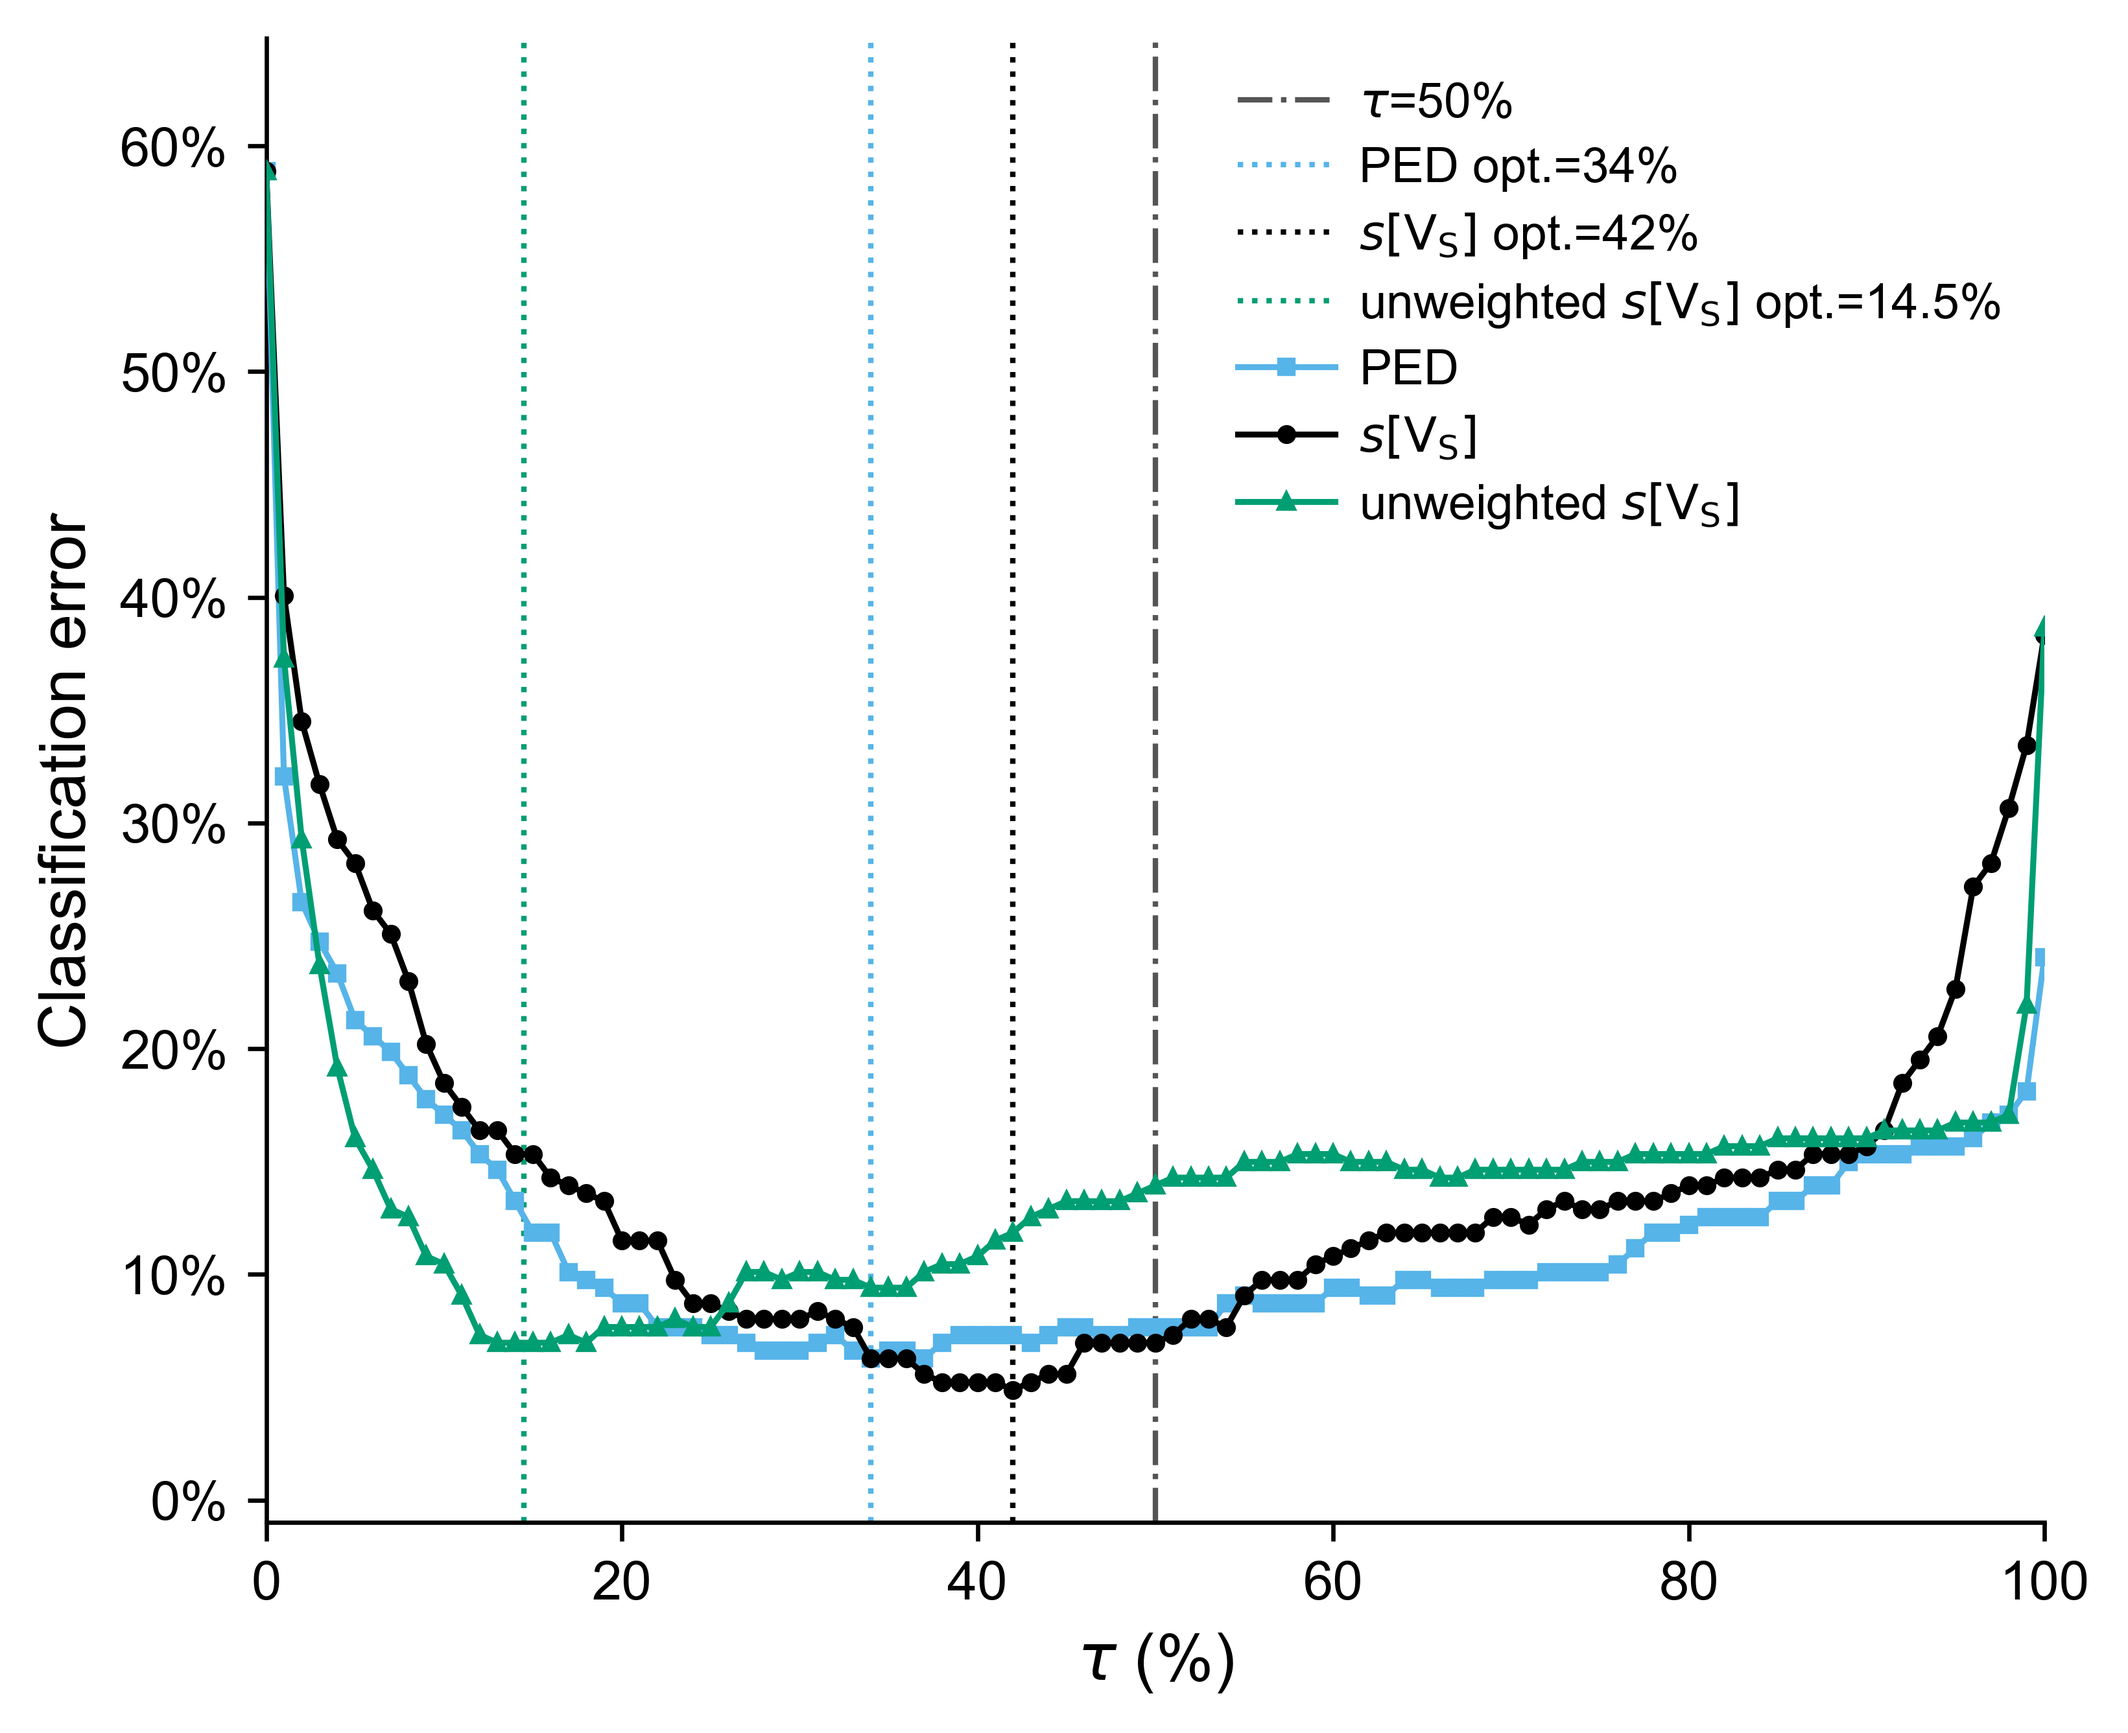
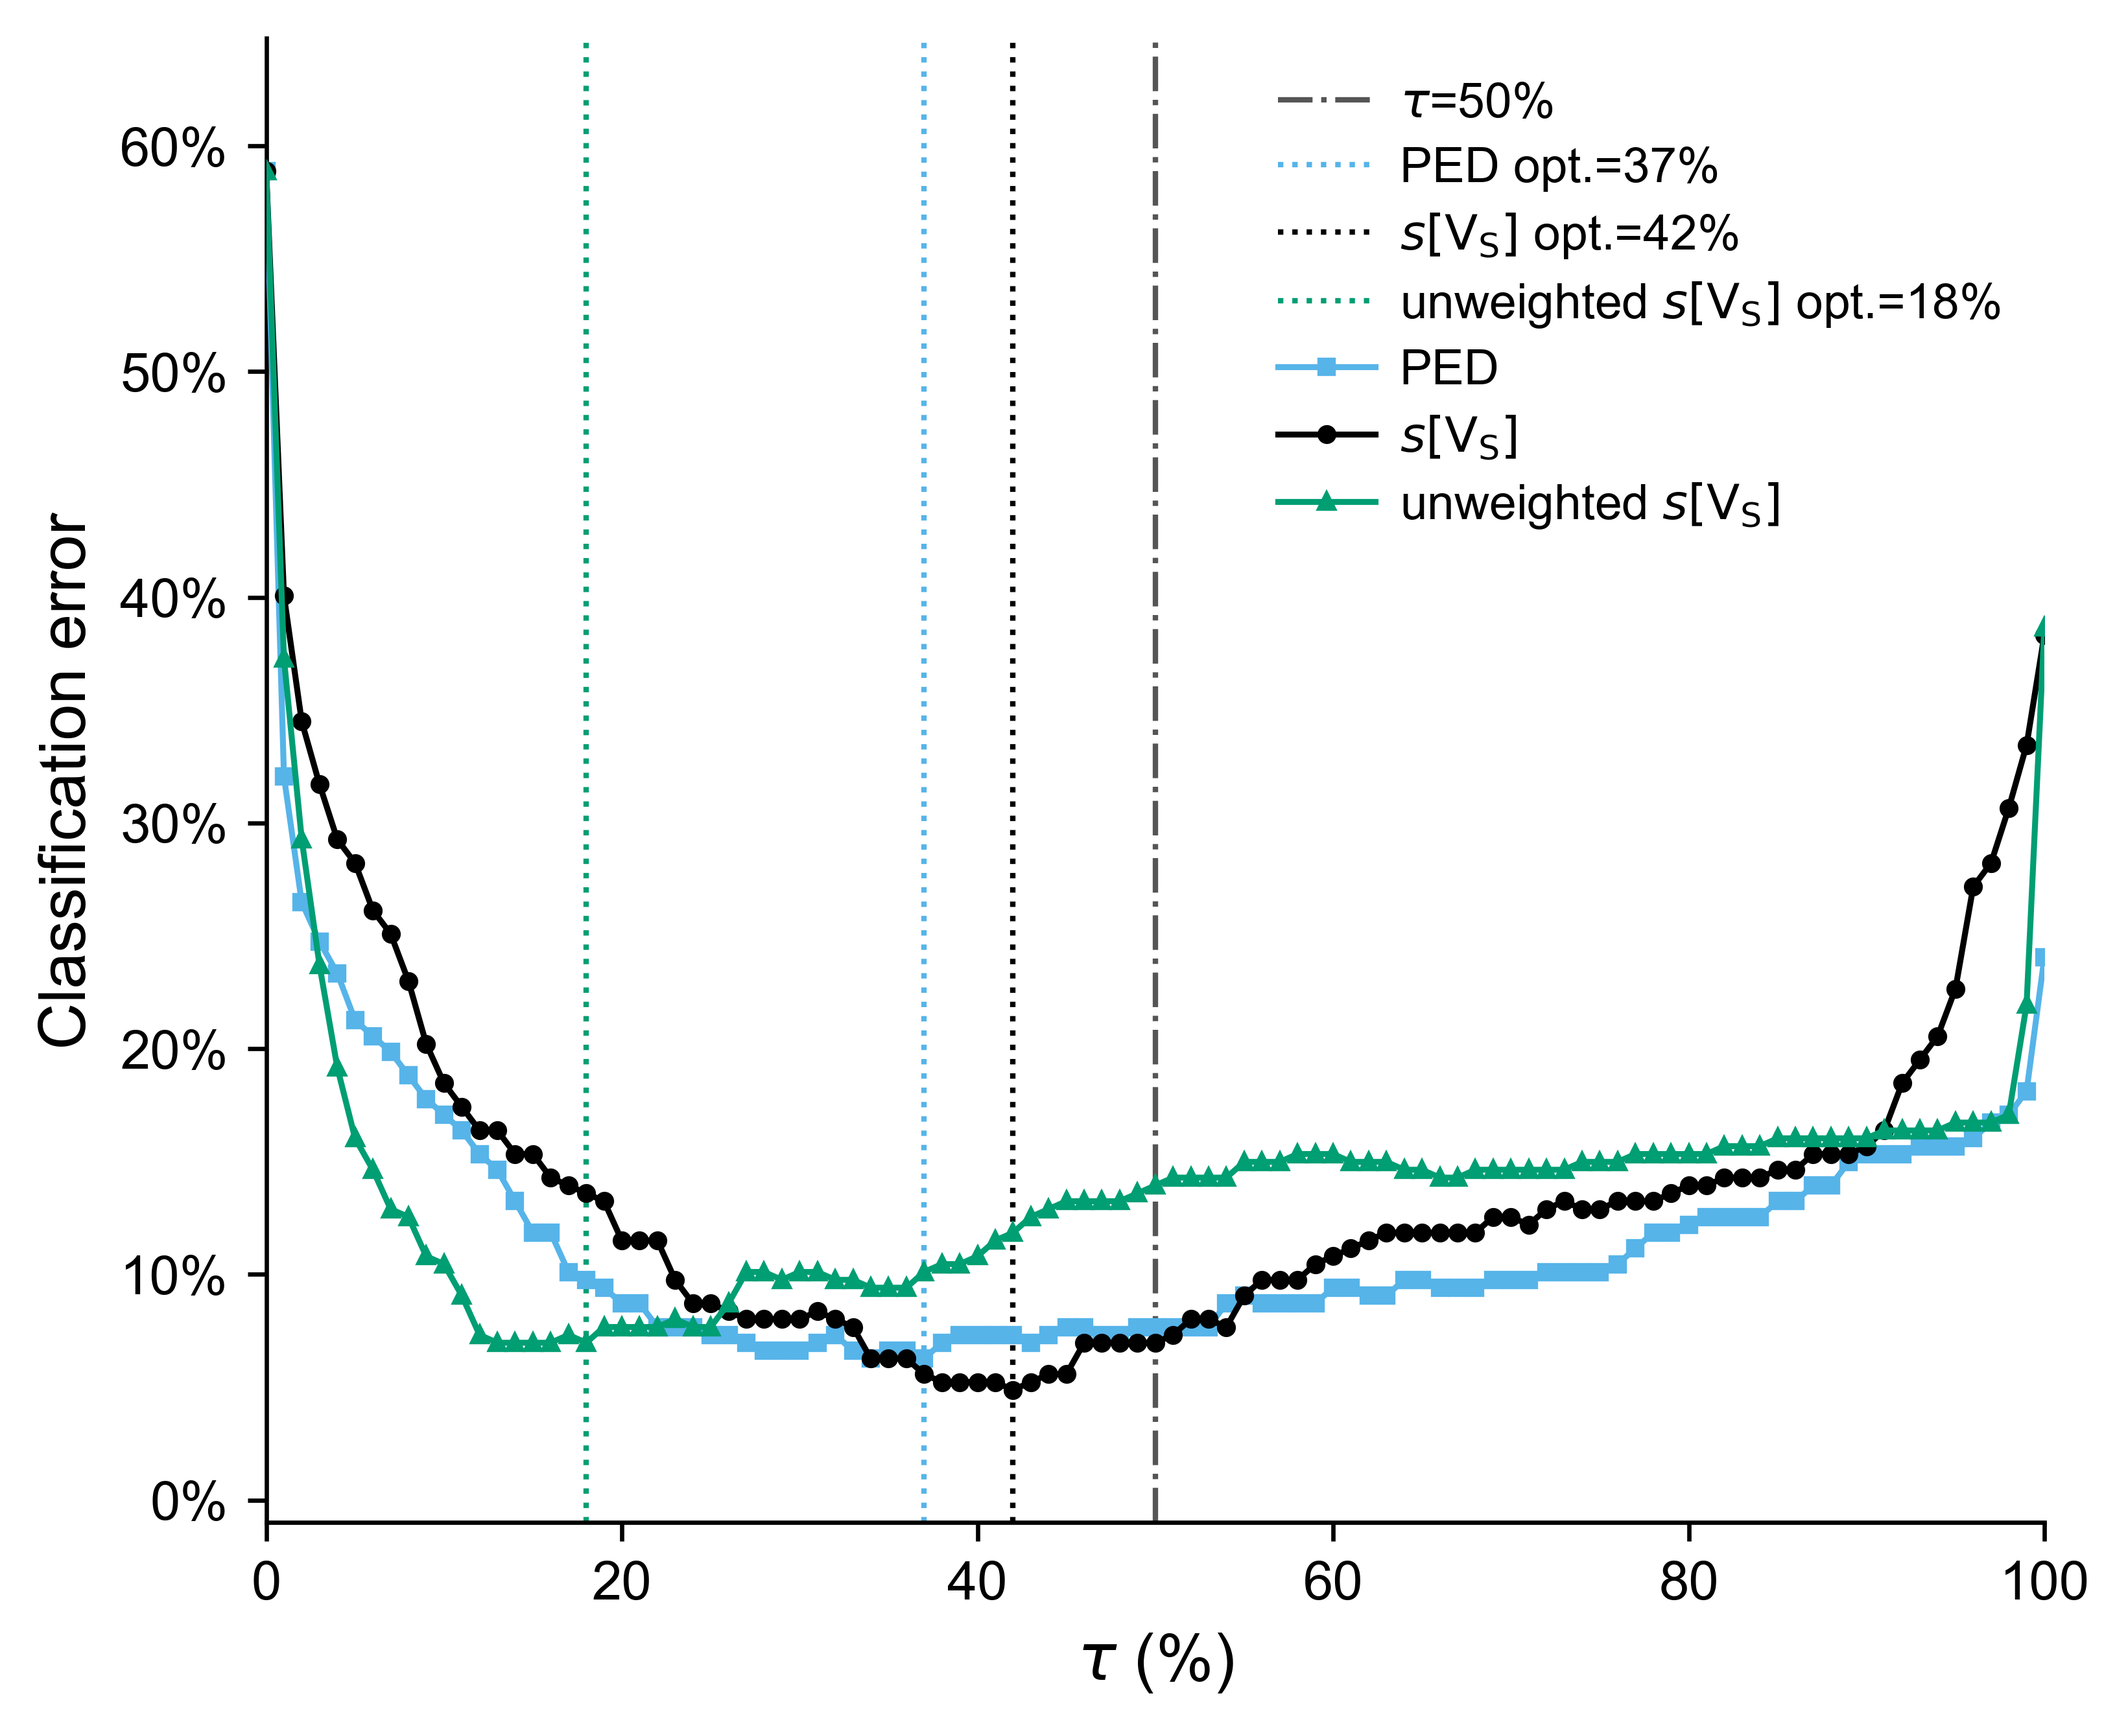
Apply the tau_SB tie-break fix to the stretch-predictor comparison figure
_error_plateau_by_col previously reported the longest contiguous tied-run
midpoint, same bug as src.calibrate._error_plateau before its fix: error_PED
ties at both 34% and the disjoint point 37% (35-36% sit strictly above the
minimum), and error_unweighted_sVS ties across [13,16]% and the disjoint
point 18%. Now searches every individual tied point and reports whichever
is closest to Thresholds.calibrated().tau_SB*100 (42%), matching
src.calibrate._error_plateau's rule. PED opt. moves 34%->37%, unweighted
opt. moves 14.5%->18%; weighted s[V_S] opt. (42%, no tie) is unaffected.

Changed region(s): [[0.5905, 0.031, 0.9324, 0.3104]]

diff --git a/src/figures.py b/src/figures.py
@@ -2587,31 +2587,49 @@ def plot_tau_sb_sensitivity(
 DEFAULT_TAU_NU_GRID = tuple(round(x, 2) for x in np.arange(0.0, 100.001, 1.0))
 
 
-def _error_plateau_by_col(sweep_df, error_col, x_col):
+def _error_plateau_by_col(sweep_df, error_col, x_col, reference_x=None):
     """Generic (column-name-parameterized) sibling of
-    src.calibrate._error_plateau: longest contiguous run of grid points
-    within 1e-9 of `error_col`'s minimum. Returns (x_lo, x_hi, midpoint,
-    min_error). Kept local to this module (rather than importing
-    calibrate._error_plateau, which hardcodes the 'tau_SB' column name) so
-    this sweep stays self-contained, matching plot_ped_vs_vscore's style of
-    not depending on calibrate.py's tau_SB machinery."""
+    src.calibrate._error_plateau -- same tie-break rule, ported over so
+    this sweep stays self-contained (rather than importing
+    calibrate._error_plateau, which hardcodes the 'tau_SB' column name).
+
+    Reports the single grid point tied at `error_col`'s minimum (within
+    1e-9) that is CLOSEST to `reference_x` (default: Thresholds.calibrated
+    ().tau_SB * 100, on this figure's 0-100 percentage scale) -- not the
+    arithmetic midpoint of the longest contiguous tied run. Plain
+    longest-run reporting gets this wrong exactly like it did for
+    src.calibrate.sweep_tau_sb: e.g. error_PED here ties at 34% AND the
+    disjoint point 37% (35-36% sit strictly above the minimum), and
+    error_unweighted_sVS ties across [13,16]% AND the disjoint point 18%
+    -- taking the longest run silently discards the other equally-valid
+    tie. Ties in distance fall back to the smaller x.
+
+    Returns (x_lo, x_hi, x, min_error); x_lo/x_hi are the bounds of
+    whichever contiguous run contains the chosen point (context only, not
+    used to compute the reported x).
+    """
+    if reference_x is None:
+        reference_x = Thresholds.calibrated().tau_SB * 100
     min_error = sweep_df[error_col].min()
     ok = sweep_df[error_col] <= min_error + 1e-9
+    if not ok.any():
+        raise ValueError(f"No plateau found for {error_col}: this should be unreachable "
+                          "since the grid's own minimum always satisfies its own tolerance.")
 
-    best_start = best_len = cur_start = cur_len = 0
-    for i, v in enumerate(ok.tolist()):
-        if v:
-            if cur_len == 0:
-                cur_start = i
-            cur_len += 1
-            if cur_len > best_len:
-                best_len, best_start = cur_len, cur_start
-        else:
-            cur_len = 0
-    lo = float(sweep_df[x_col].iloc[best_start])
-    hi = float(sweep_df[x_col].iloc[best_start + best_len - 1])
-    midpoint = round((lo + hi) / 2, 4)
-    return lo, hi, midpoint, float(min_error)
+    tied = sweep_df.loc[ok, x_col]
+    best_idx = min(tied.index, key=lambda i: (abs(float(tied[i]) - reference_x), float(tied[i])))
+    x = float(tied[best_idx])
+
+    ok_list = ok.tolist()
+    pos = sweep_df.index.get_loc(best_idx)
+    lo_pos = hi_pos = pos
+    while lo_pos > 0 and ok_list[lo_pos - 1]:
+        lo_pos -= 1
+    while hi_pos < len(ok_list) - 1 and ok_list[hi_pos + 1]:
+        hi_pos += 1
+    lo = float(sweep_df[x_col].iloc[lo_pos])
+    hi = float(sweep_df[x_col].iloc[hi_pos])
+    return lo, hi, x, float(min_error)
 
 
 def _prep_predictor_vs_reference(csv_path, value_col, mol_list_csv, characterised_modes_csv):
